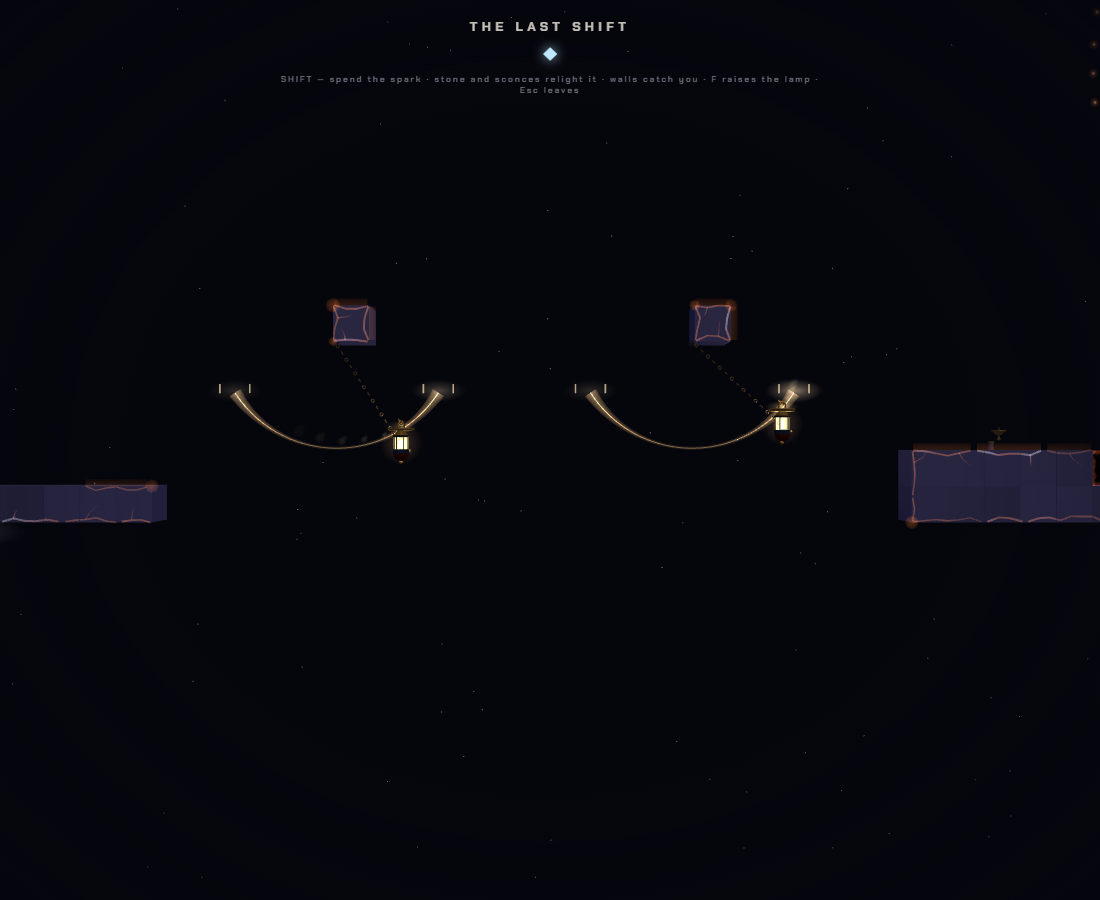
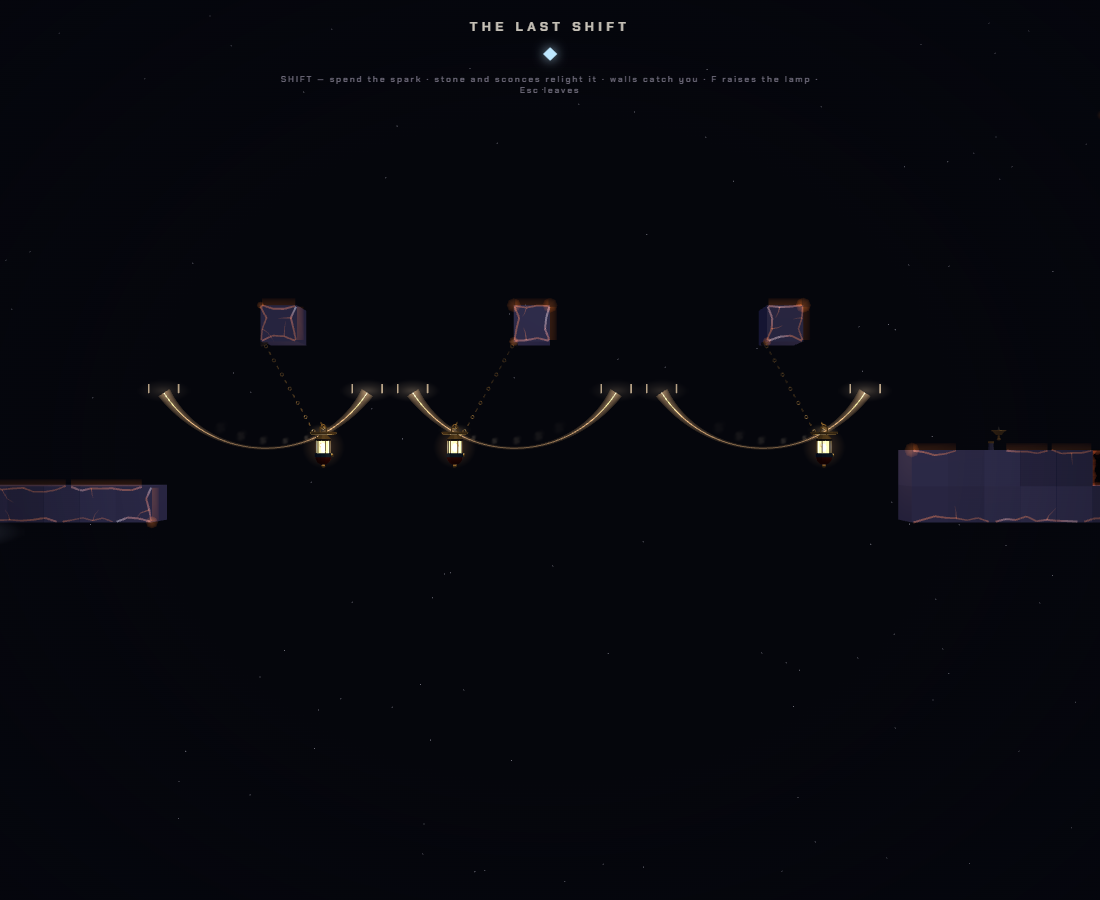
The lanterns hand you across
Playtest finding on THE LAST SHIFT: two ridden lanterns ten columns
apart could never pass a body between them — each bob reaches 2.86
aside, and the facing apexes stopped four tiles short. The ride is now
THREE lanterns, seven columns apart, adjacent pairs swung in ANTI-phase:
both bobs arrive at their shared top together, momentarily still, and
the crossing is a step. The suite's shift contract updated to match.

diff --git a/src/world/vaults.ts b/src/world/vaults.ts
@@ -489,8 +489,9 @@ export const VAULTS: VaultDef[] = [
       { x: 25.5, y: 53.3, period: 3.40, phase: 0.25, spin: true }
     ],
     censers: [
-      { x: 18, y: 22, len: 3.4, arc: 1.0, period: 2.55, phase: 0.0 },
-      { x: 28, y: 22, len: 3.4, arc: 1.0, period: 2.55, phase: 0.25 }
+      { x: 16, y: 22, len: 3.4, arc: 1.0, period: 2.55, phase: 0.0 },
+      { x: 23, y: 22, len: 3.4, arc: 1.0, period: 2.55, phase: 0.5 },
+      { x: 30, y: 22, len: 3.4, arc: 1.0, period: 2.55, phase: 0.0 }
     ],
     currents: [
       // the three shafts, blowing DOWN (negative force): capped shy of
@@ -521,7 +522,7 @@ export const VAULTS: VaultDef[] = [
       '.._____________________________________...._______..',
       '....................................................',
       '....................................................',
-      '..................#.........#.......................',
+      '................#......#......#.....................',
       '....................................................',
       '....................................................',
       '....................................S...............',

diff --git a/scripts/author-shift.py b/scripts/author-shift.py
@@ -80,8 +80,9 @@ put(6, F[0] - 1, 'S')
 
 # --- storey 2: no floor at all ----------------------------------------------
 run(7, 12, F[1])                            # the far shelf, end of the ride
-put(18, F[1] - 5, '#')                      # censer mounts...
-put(28, F[1] - 5, '#')                      # ...pivots hang one course below
+put(16, F[1] - 5, '#')                      # censer mounts...
+put(23, F[1] - 5, '#')                      # ...pivots hang one course below
+put(30, F[1] - 5, '#')
 block(34, 38, F[1] - 1, F[1])               # the safe block off the first shaft
 run(39, 43, F[1])                           # the spiked shelf under the wind:
 run(39, 43, F[1] - 1, 'X')                  # land here and the storey repeats
@@ -131,10 +132,15 @@ BEAMS = [
     (29.5, 7.2, 4, 0.5, True),
     (25.5, 53.3, 4, 0.25, False),
 ]
-# the ridden lanterns: (x, pivot-row, len, arc, period-in-pulses, phase)
+# The ridden lanterns: (x, pivot-row, len, arc, period-in-pulses, phase).
+# THREE, seven columns apart — each bob reaches len*sin(arc) = 2.86 aside,
+# so facing apexes stop 1.3 tiles from each other — and adjacent lanterns
+# swing in ANTI-phase: both bobs arrive at their shared top together,
+# momentarily still, and the crossing is a step, not a prayer.
 CENSERS = [
-    (18, F[1] - 4, 3.4, 1.0, 3, 0.0),
-    (28, F[1] - 4, 3.4, 1.0, 3, 0.25),
+    (16, F[1] - 4, 3.4, 1.0, 3, 0.0),
+    (23, F[1] - 4, 3.4, 1.0, 3, 0.5),
+    (30, F[1] - 4, 3.4, 1.0, 3, 0.0),
 ]
 SINK = -40
 
